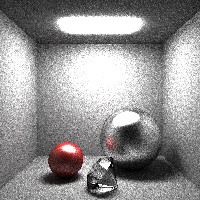
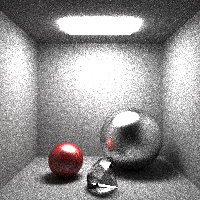
antialiasing

diff --git a/render3d/raytrace.go b/render3d/raytrace.go
@@ -41,6 +41,11 @@ type RecursiveRayTracer struct {
 	// number of rays traced can be reduced.
 	Cutoff float64
 
+	// Antialias, if non-zero, specifies a fraction of a
+	// pixel to perturb every ray's origin.
+	// Thus, 1 is maximum, and 0 means no change.
+	Antialias float64
+
 	// Epsilon is a small distance used to move away from
 	// surfaces before bouncing new rays.
 	// If nil, DefaultEpsilon is used.
@@ -77,11 +82,17 @@ func (r *RecursiveRayTracer) Render(img *Image, obj Object) {
 		wg.Add(1)
 		go func() {
 			defer wg.Done()
+			gen := rand.New(rand.NewSource(rand.Int63()))
 			ray := model3d.Ray{Origin: r.Camera.Origin}
 			for c := range coords {
 				ray.Direction = caster(float64(c[0]), float64(c[1]))
 				var color Color
 				for i := 0; i < r.NumSamples; i++ {
+					if r.Antialias != 0 {
+						dx := gen.Float64() - 0.5
+						dy := gen.Float64() - 0.5
+						ray.Direction = caster(float64(c[0])+dx, float64(c[1])+dy)
+					}
 					color = color.Add(r.castRay(obj, &ray, 0, 1))
 				}
 				img.Data[c[2]] = color.Scale(1 / float64(r.NumSamples))

diff --git a/examples/apis/render/main.go b/examples/apis/render/main.go
@@ -97,6 +97,7 @@ func main() {
 
 		MaxDepth:   5,
 		NumSamples: 400,
+		Antialias:  1.0,
 		Cutoff:     1e-4,
 
 		LogFunc: func(p float64) {
